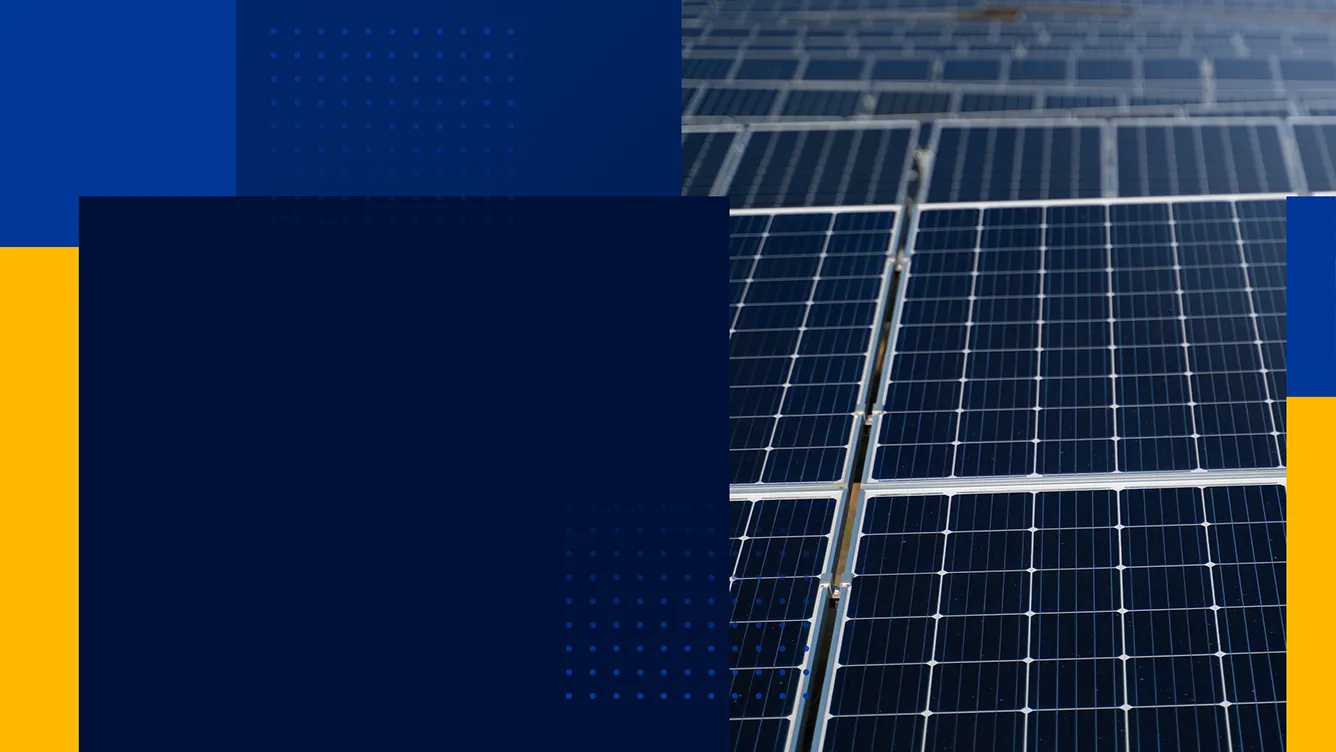
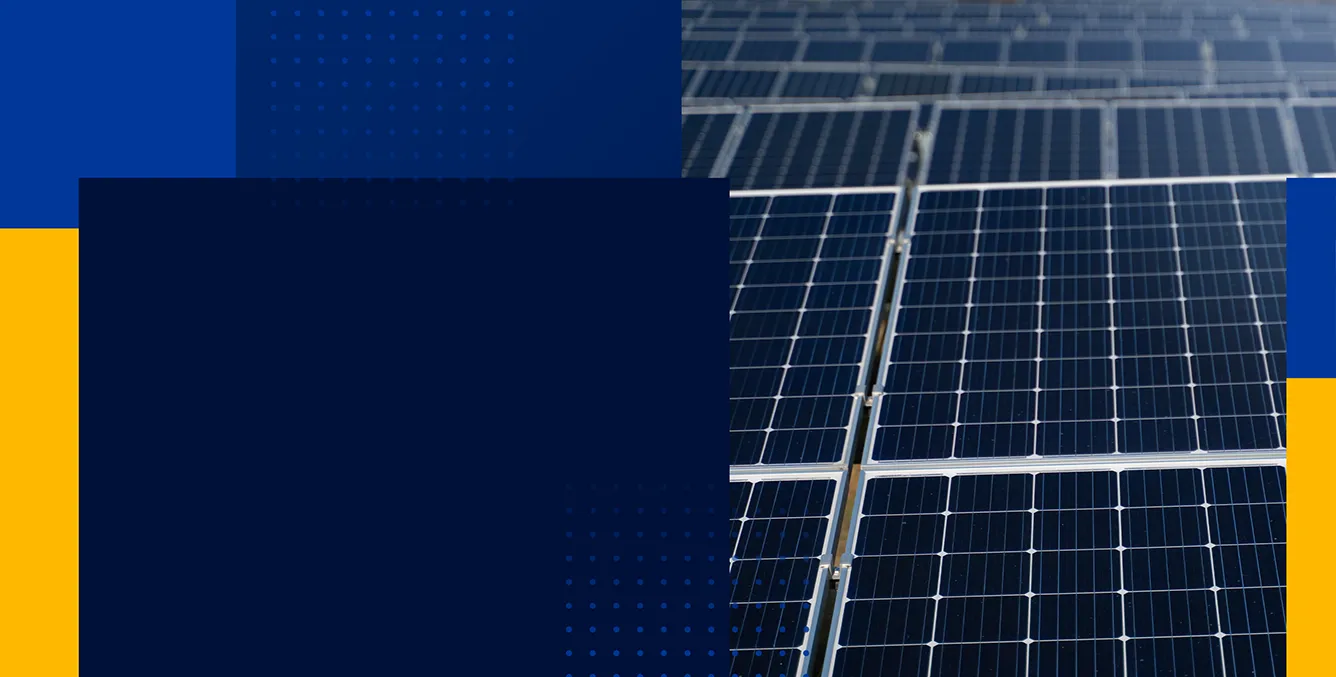
Updated with new large hero bg

diff --git a/app/assets/styles/modules/_large-hero.css b/app/assets/styles/modules/_large-hero.css
@@ -1,6 +1,6 @@
 .large-hero {
     position: relative;
-    background-image: url('https://ijalfauzi.github.io/cee/assets/images/large_hero_new_2.webp');
+    background-image: url('https://ijalfauzi.github.io/cee/assets/images/large_hero_new.webp');
     background-size: cover;
     background-attachment: scroll;
     background-repeat: no-repeat;
